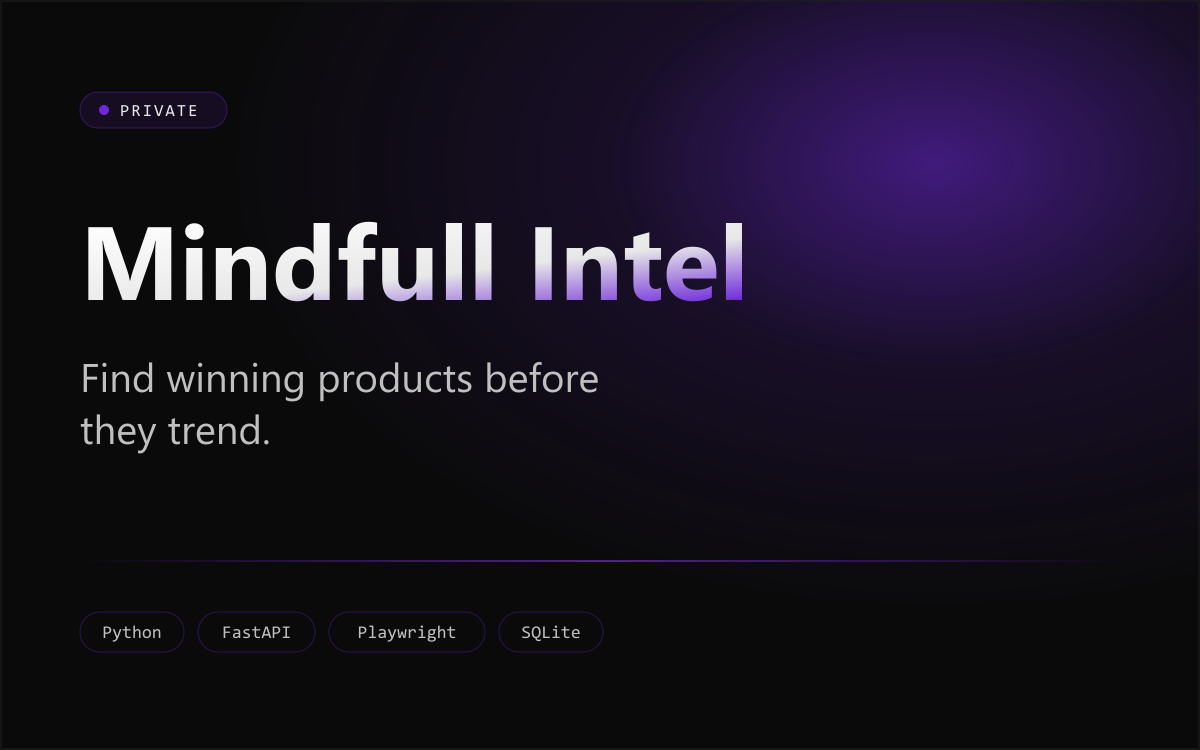
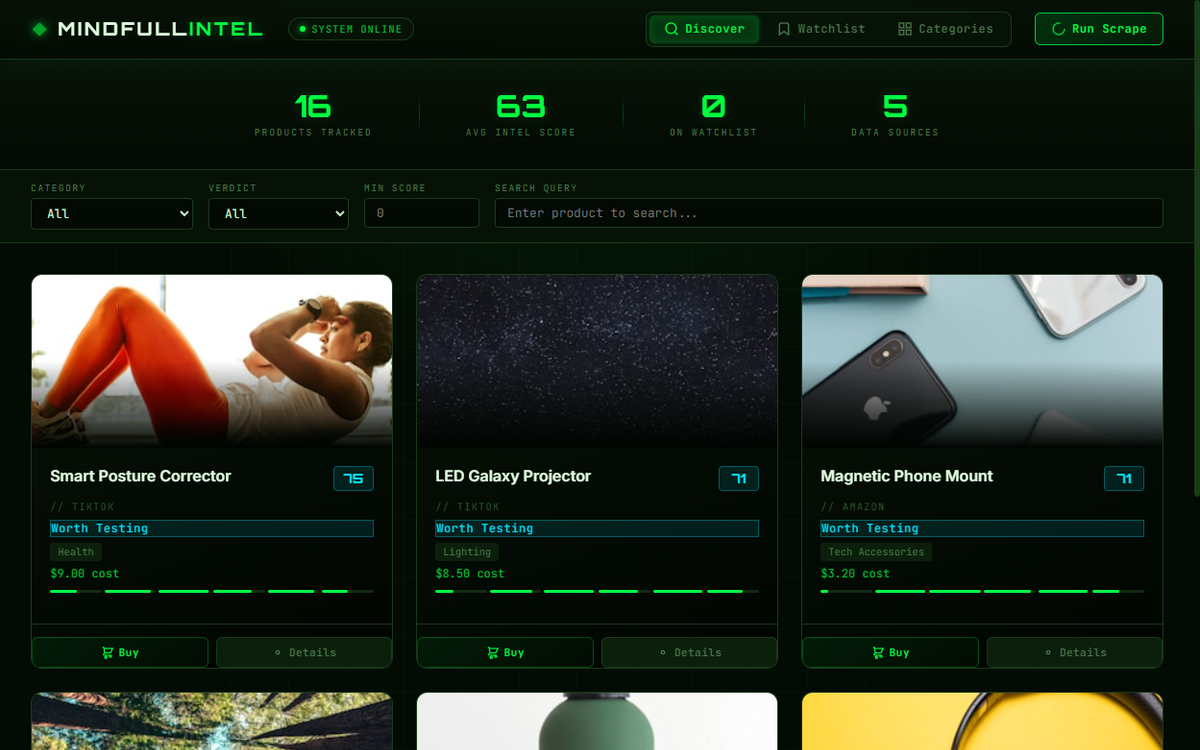
feat: brand fonts (Cormorant/Italiana) + real project screenshots + card thumbnails

diff --git a/src/components/sections/ProjectCard.tsx b/src/components/sections/ProjectCard.tsx
@@ -1,5 +1,6 @@
 "use client";
 
+import Image from "next/image";
 import { motion } from "framer-motion";
 import type { Project } from "@/lib/types";
 import { useDeepDive } from "@/components/deepdive/DeepDiveContext";
@@ -17,10 +18,19 @@ export default function ProjectCard({ project }: { project: Project }) {
         className="pointer-events-none absolute inset-0 rounded-2xl opacity-0 transition-opacity group-hover:opacity-100"
         style={{ boxShadow: `0 0 40px ${project.accent}55` }}
       />
+      <div className="mb-5 overflow-hidden rounded-xl border border-[#1f1f1f]">
+        <Image
+          src={project.image}
+          alt={project.name}
+          width={1200}
+          height={750}
+          className="aspect-[16/10] w-full object-cover transition-transform duration-500 group-hover:scale-[1.04]"
+        />
+      </div>
       <p className="font-mono text-xs uppercase tracking-widest" style={{ color: project.accent }}>
         {project.status}
       </p>
-      <h3 className="mt-2 text-2xl font-bold text-white">{project.name}</h3>
+      <h3 className="font-display mt-2 text-3xl font-medium text-white">{project.name}</h3>
       <p className="mt-2 text-[#c0c0c0]">{project.hook}</p>
       <div className="mt-4 flex flex-wrap gap-2">
         {project.tech.slice(0, 4).map((t) => (

diff --git a/src/app/layout.tsx b/src/app/layout.tsx
@@ -1,5 +1,5 @@
 import type { Metadata } from "next";
-import { Geist, Geist_Mono, Cormorant_Garamond } from "next/font/google";
+import { Geist, Geist_Mono, Cormorant_Garamond, Italiana } from "next/font/google";
 import "./globals.css";
 import SmoothScroll from "@/components/effects/SmoothScroll";
 
@@ -12,6 +12,12 @@ const display = Cormorant_Garamond({
   style: ["normal", "italic"],
   display: "swap",
 });
+const wordmark = Italiana({
+  variable: "--font-wordmark",
+  subsets: ["latin"],
+  weight: "400",
+  display: "swap",
+});
 
 export const metadata: Metadata = {
   title: "Vincent Sarkis — Founder & Creator",
@@ -21,7 +27,7 @@ export const metadata: Metadata = {
 
 export default function RootLayout({ children }: Readonly<{ children: React.ReactNode }>) {
   return (
-    <html lang="en" className={`${geistSans.variable} ${geistMono.variable} ${display.variable} h-full`}>
+    <html lang="en" className={`${geistSans.variable} ${geistMono.variable} ${display.variable} ${wordmark.variable} h-full`}>
       <body className="min-h-full bg-black text-[#f0f0f0] antialiased overflow-x-hidden">
         <SmoothScroll>{children}</SmoothScroll>
       </body>

diff --git a/src/app/globals.css b/src/app/globals.css
@@ -19,6 +19,10 @@
   .font-display {
     font-family: var(--font-display), Georgia, serif;
   }
+
+  .font-wordmark {
+    font-family: var(--font-wordmark), Georgia, serif;
+  }
 }
 
 @theme inline {

diff --git a/src/components/deepdive/ProjectDeepDive.tsx b/src/components/deepdive/ProjectDeepDive.tsx
@@ -35,7 +35,7 @@ export default function ProjectDeepDive() {
             <p className="font-mono text-xs uppercase tracking-widest text-[#a78bfa]">
               {active.status}
             </p>
-            <h2 className="gradient-text mt-2 text-4xl font-bold">{active.name}</h2>
+            <h2 className="font-display gradient-text mt-2 text-5xl font-light tracking-tight">{active.name}</h2>
             <p className="mt-2 text-lg text-[#c0c0c0]">{active.hook}</p>
 
             <Image

diff --git a/src/components/sections/Contact.tsx b/src/components/sections/Contact.tsx
@@ -6,7 +6,7 @@ export default function Contact() {
   return (
     <section id="contact" className="relative mx-auto max-w-3xl px-6 py-32 text-center">
       <AnimateIn>
-        <h2 className="gradient-text text-5xl font-bold md:text-6xl">Let&apos;s build something.</h2>
+        <h2 className="font-display gradient-text text-6xl font-light tracking-tight md:text-7xl">Let&apos;s build something.</h2>
         <p className="mt-5 text-lg text-[#c0c0c0]">
           Got an idea, a project, or just want to connect? My inbox is open.
         </p>

diff --git a/src/components/sections/Hero.tsx b/src/components/sections/Hero.tsx
@@ -22,7 +22,7 @@ export default function Hero() {
           initial={{ opacity: 0, y: 30 }}
           animate={{ opacity: 1, y: 0 }}
           transition={{ delay: 0.35, type: "spring", bounce: 0.2 }}
-          className="gradient-text mt-4 text-6xl font-bold leading-none md:text-8xl"
+          className="font-display gradient-text mt-4 text-7xl font-light tracking-tight leading-[0.9] md:text-9xl"
         >
           {profile.name}
         </motion.h1>

diff --git a/src/components/sections/Nav.tsx b/src/components/sections/Nav.tsx
@@ -8,7 +8,7 @@ export default function Nav() {
   return (
     <nav className="fixed top-0 z-40 w-full backdrop-blur-md">
       <div className="mx-auto flex max-w-6xl items-center justify-between px-6 py-4">
-        <a href="#top" className="font-display text-xl italic text-white">VS</a>
+        <a href="#top" className="font-wordmark text-2xl tracking-wide text-white">Vincent Sarkis</a>
         <div className="hidden gap-6 md:flex">
           {links.map(([label, href]) => (
             <a key={href} href={href} className="text-sm text-[#c0c0c0] transition hover:text-white">

diff --git a/src/components/sections/Projects.tsx b/src/components/sections/Projects.tsx
@@ -7,7 +7,7 @@ export default function Projects() {
     <section id="projects" className="relative mx-auto max-w-6xl px-6 py-28">
       <AnimateIn>
         <p className="font-mono text-xs uppercase tracking-widest text-[#a78bfa]">Selected work</p>
-        <h2 className="gradient-text mt-2 text-4xl font-bold md:text-5xl">Ideas, brought to life</h2>
+        <h2 className="font-display gradient-text mt-2 text-5xl font-light tracking-tight md:text-6xl">Ideas, brought to life</h2>
       </AnimateIn>
       <div className="mt-12 grid gap-6 md:grid-cols-3">
         {projects.map((p, i) => (

diff --git a/src/components/sections/Stats.tsx b/src/components/sections/Stats.tsx
@@ -21,7 +21,7 @@ function Counter({ value, suffix }: { value: number; suffix?: string }) {
     return () => cancelAnimationFrame(raf);
   }, [inView, value]);
   return (
-    <span ref={ref} className="gradient-text text-6xl font-bold">
+    <span ref={ref} className="font-display gradient-text text-7xl font-light">
       {n}{suffix ?? ""}
     </span>
   );

diff --git a/src/components/sections/Timeline.tsx b/src/components/sections/Timeline.tsx
@@ -6,7 +6,7 @@ export default function Timeline() {
     <section id="journey" className="relative mx-auto max-w-3xl px-6 py-28">
       <AnimateIn>
         <p className="font-mono text-xs uppercase tracking-widest text-[#a78bfa]">The journey</p>
-        <h2 className="gradient-text mt-2 text-4xl font-bold">Milestones</h2>
+        <h2 className="font-display gradient-text mt-2 text-5xl font-light tracking-tight">Milestones</h2>
       </AnimateIn>
       <div className="mt-12 space-y-8 border-l border-[#6d28d9]/40 pl-8">
         {profile.timeline.map((e, i) => (